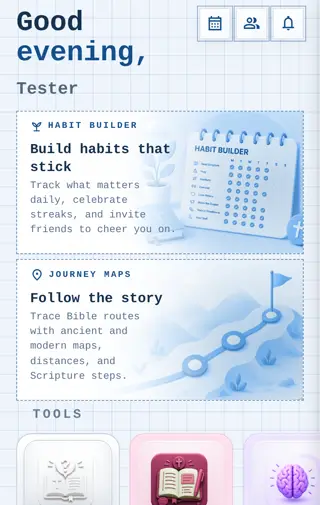
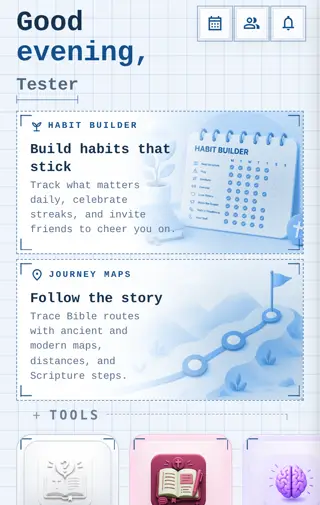
Darker Candy label text; re-shoot style previews
Claude-Session: https://claude.ai/code/session_015BwhMUAWrskwK1ZjEdZTJJ

diff --git a/style.css b/style.css
@@ -41992,7 +41992,7 @@ body.you-sheet-open .you-hero-guide { opacity: 0; transition: opacity .2s; }
 :root[data-skin="candy"] .hat-icon { border: 3px solid #fff !important; box-shadow: 0 4px 0 color-mix(in srgb, var(--qa-title, var(--secondary-color)) 35%, transparent), 0 6px 14px rgba(0, 0, 0, .12) !important; rotate: -4deg; }
 :root[data-skin="candy"] .home-action-tile:nth-child(even) .hat-icon { rotate: 4deg; }
 :root[data-skin="candy"].is-dark .hat-icon { border-color: rgba(255, 255, 255, .75) !important; }
-:root[data-skin="candy"] .home-section-label, :root[data-skin="candy"] .you-lbl { width: fit-content; padding: 4px 14px; border-radius: 999px; background: color-mix(in srgb, var(--secondary-color) 14%, transparent); color: var(--secondary-color) !important; box-shadow: 0 3px 0 color-mix(in srgb, var(--secondary-color) 22%, transparent); }
+:root[data-skin="candy"] .home-section-label, :root[data-skin="candy"] .you-lbl { width: fit-content; padding: 4px 14px; border-radius: 999px; background: color-mix(in srgb, var(--secondary-color) 14%, transparent); color: color-mix(in srgb, var(--secondary-color) 80%, #000) !important; box-shadow: 0 3px 0 color-mix(in srgb, var(--secondary-color) 22%, transparent); }
 :root[data-skin="candy"].is-dark .home-section-label, :root[data-skin="candy"].is-dark .you-lbl { color: color-mix(in srgb, var(--secondary-color) 55%, #fff) !important; }
 :root[data-skin="candy"] .home-greeting-name, :root[data-skin="candy"] .you-title { text-shadow: 0 3px 0 color-mix(in srgb, var(--accent-color, var(--secondary-color)) 28%, transparent); }
 :root[data-skin="candy"] .hpw-go, :root[data-skin="candy"] .you-pop-keep, :root[data-skin="candy"] .install-go, :root[data-skin="candy"] .mem-primary-btn { animation: cdHop 3.6s ease-in-out infinite; }
